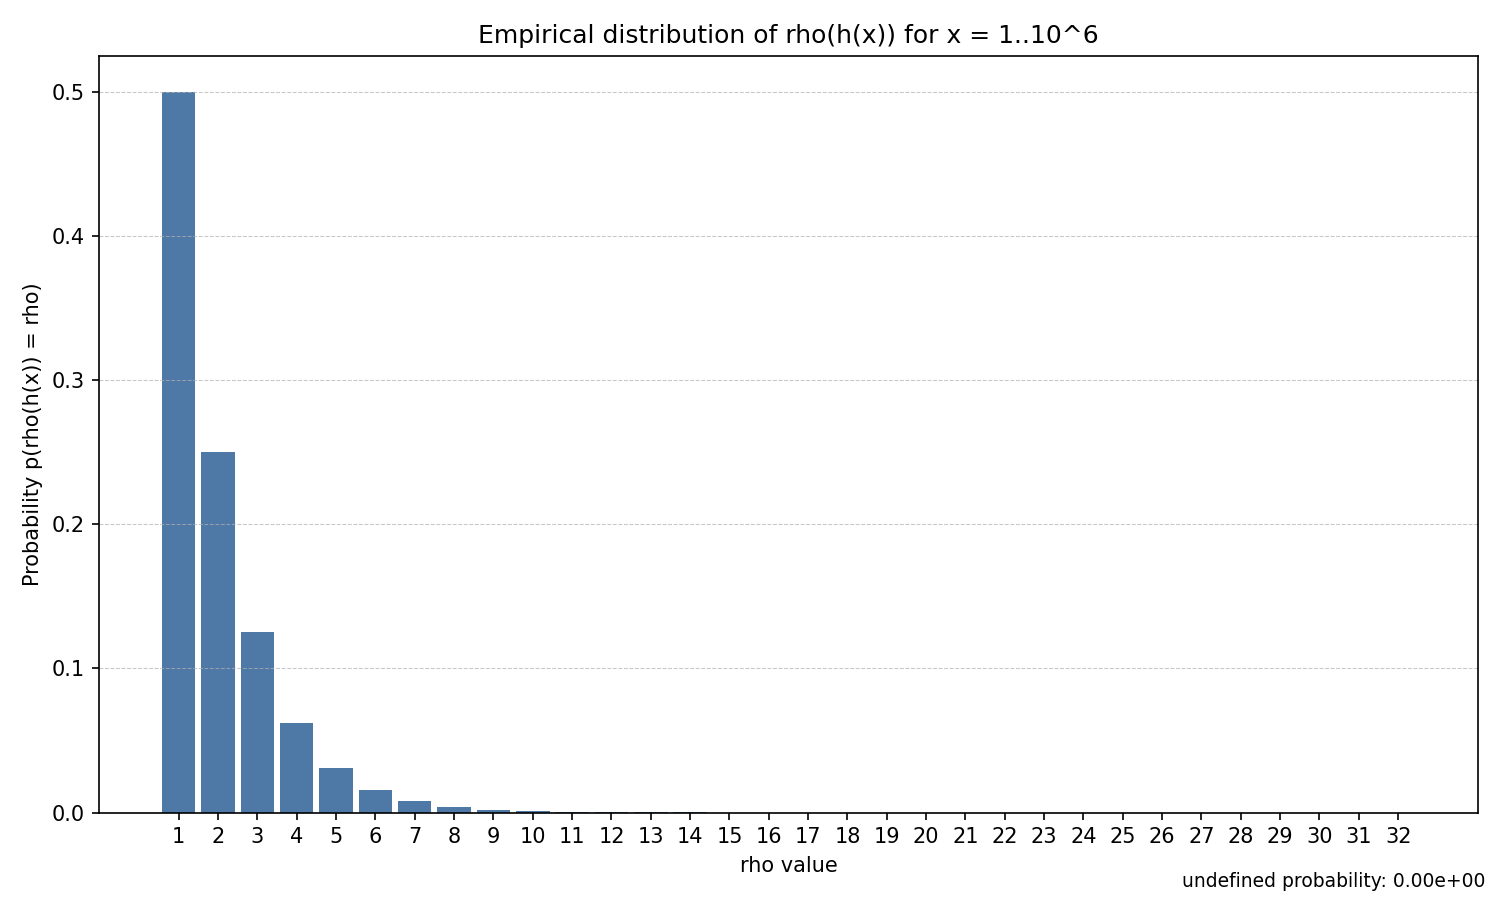
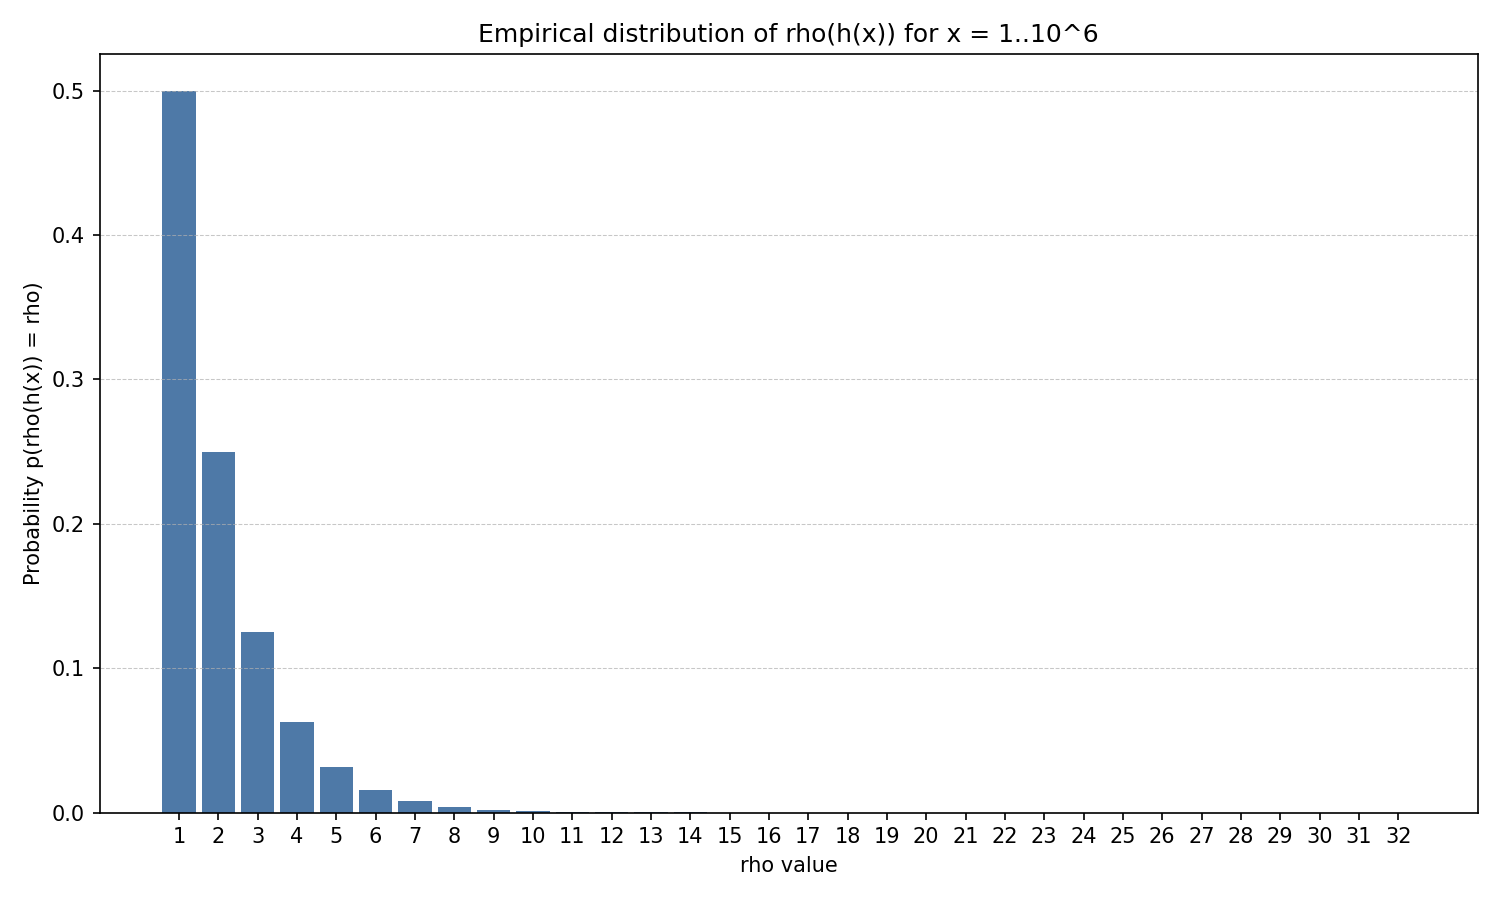
adds comments and removes superflouous code in experiemnts.py and postprocess.py

diff --git a/hyperloglog/experiments.py b/hyperloglog/experiments.py
@@ -5,7 +5,15 @@ import csv
 import sys
 from pathlib import Path
 
-TIMEOUT = 900
+TIMEOUT = 30
+
+
+#paths relative to directory and N value variable for print statement later
+SCRIPT_DIR = Path(__file__).resolve().parent
+JAR_PATH = SCRIPT_DIR / 'app' / 'build' / 'libs' / 'app.jar'
+RESULTS_PATH = SCRIPT_DIR / 'results.csv'
+MODE = 'rho-dist'
+N = 1_000_000
 
 def make_input(n: int) -> str:
     # First line N, second line: 1..N
@@ -13,7 +21,8 @@ def make_input(n: int) -> str:
     nums = " ".join(map(str, range(1, n + 1)))
     return f"{n}\n{nums}\n"
 
-def run_java_once(jar: str, arg: str, n: int) -> str:
+#method that pipes java program
+def run_java(jar: str, arg: str, n: int) -> str:
     input_str = make_input(n)
     p = subprocess.Popen(
         ['java', '-jar', jar, arg],
@@ -33,54 +42,36 @@ def parse_distribution(output: str) -> List[Tuple[str, int]]:
     for line in lines:
         if line.startswith('rho'):
             continue
-        try:
-            label, count_str = line.split(',', 1)
-        except ValueError as exc:
-            raise ValueError(f"Unexpected line from Java output: {line!r}") from exc
+    
+        label, count_str = line.split(',', 1)
+       
         distribution.append((label, int(count_str)))
     return distribution
 
-# ---- config ----
-# Resolve the jar path relative to this script's directory
-SCRIPT_DIR = Path(__file__).resolve().parent
-JAR_PATH = SCRIPT_DIR / 'app' / 'build' / 'libs' / 'app.jar'
-RESULTS_PATH = SCRIPT_DIR / 'results.csv'
-MODE = 'rho-dist'
-N = 1_000_000
+
 
 if __name__ == '__main__':
-    if not JAR_PATH.exists():
-        print(
-            (
-                f"Missing jar at: {JAR_PATH}.\n"
-                f"Try: cd {SCRIPT_DIR} && ./gradlew :app:jar\n"
-                f"Or run from repo root: ./hyperloglog/gradlew :app:jar"
-            ),
-            file=sys.stderr,
-        )
-        sys.exit(1)
 
-    raw_output = run_java_once(str(JAR_PATH), MODE, N)
+    #running HyperLogLog.java 
+    raw_output = run_java(str(JAR_PATH), MODE, N)
     distribution_raw = parse_distribution(raw_output)
 
+    #total number of values vs expected (should ever be different but nice to have)
     total_values = sum(count for _, count in distribution_raw)
     print(f"Distribution covers {total_values} values (expected {N}).")
-
     numeric_entries: List[Tuple[int, int]] = []
-    undefined_count = None
+    
     for label, count in distribution_raw:
         if label.isdigit():
             numeric_entries.append((int(label), count))
-        elif label == 'undefined':
-            undefined_count = count
 
     numeric_entries.sort(key=lambda item: item[0])
 
+    # printing rho and count 
     for rho_value, count in numeric_entries:
         print(f"rho={rho_value}: {count}")
-    if undefined_count is not None:
-        print(f"rho=undefined: {undefined_count}")
-
+   
+    #writing output to list 
     rows = []
     for rho_value, count in numeric_entries:
         rows.append({
@@ -89,13 +80,7 @@ if __name__ == '__main__':
             'probability': f"{count / N:.8f}",
         })
 
-    if undefined_count is not None:
-        rows.append({
-            'rho': 'undefined',
-            'count': undefined_count,
-            'probability': f"{undefined_count / N:.8f}",
-        })
-
+    #writing from output list (rows) to resuslts.csv
     with RESULTS_PATH.open('w', newline='') as f:
         writer = csv.DictWriter(f, fieldnames=['rho', 'count', 'probability'])
         writer.writeheader()

diff --git a/hyperloglog/postprocess.py b/hyperloglog/postprocess.py
@@ -7,21 +7,17 @@ import csv
 from pathlib import Path
 from typing import List, Tuple
 
-import matplotlib
-
-matplotlib.use('Agg')
 import matplotlib.pyplot as plt
 
-
+#paths 
 SCRIPT_DIR = Path(__file__).resolve().parent
 RESULTS_PATH = SCRIPT_DIR / 'results.csv'
 PLOT_PATH = SCRIPT_DIR / 'rho_distribution.png'
 
-
+#reading csv and appending to lists
 def read_distribution(path: Path) -> Tuple[List[int], List[float], float]:
     rho_values: List[int] = []
     probabilities: List[float] = []
-    undefined_prob = 0.0
 
     with path.open(newline='') as handle:
         reader = csv.DictReader(handle)
@@ -29,31 +25,25 @@ def read_distribution(path: Path) -> Tuple[List[int], List[float], float]:
             rho_label = row['rho']
             probability = float(row['probability'])
 
-            try:
-                rho_values.append(int(rho_label))
-                probabilities.append(probability)
-            except ValueError:
-                if rho_label.strip().lower() == 'undefined':
-                    undefined_prob = probability
-
+            
+            rho_values.append(int(rho_label))
+            probabilities.append(probability)
+           
     paired = sorted(zip(rho_values, probabilities), key=lambda item: item[0])
     if paired:
         rho_values, probabilities = map(list, zip(*paired))  # type: ignore[arg-type]
     else:
         rho_values, probabilities = [], []
 
-    return rho_values, probabilities, undefined_prob
+    return rho_values, probabilities
 
 
 if __name__ == '__main__':
-    if not RESULTS_PATH.exists():
-        raise SystemExit(f'Missing results file at: {RESULTS_PATH}')
+    
+    #calling csv reader method on results.csv
+    rho_values, probabilities = read_distribution(RESULTS_PATH)
 
-    rho_values, probabilities, undefined_prob = read_distribution(RESULTS_PATH)
-
-    if not rho_values:
-        raise SystemExit('No numeric rho entries found in results.csv')
-
+    #making plot (matplotlib)
     plt.figure(figsize=(10, 6))
     plt.bar(rho_values, probabilities, color='#4e79a7', width=0.85)
 
@@ -63,9 +53,7 @@ if __name__ == '__main__':
     plt.xticks(rho_values)
     plt.grid(axis='y', linestyle='--', linewidth=0.5, alpha=0.7)
 
-    caption = 'undefined probability: {:.2e}'.format(undefined_prob)
-    plt.figtext(0.99, 0.01, caption, ha='right', va='bottom', fontsize=9)
-
+    #saving plot to specified path 
     plt.tight_layout()
     plt.savefig(PLOT_PATH, dpi=150)
     print(f'Wrote distribution plot to {PLOT_PATH}')

diff --git a/hyperloglog/app/src/main/java/hyperloglog/HyperLogLog.java b/hyperloglog/app/src/main/java/hyperloglog/HyperLogLog.java
@@ -77,16 +77,10 @@ public class HyperLogLog {
     }
 
     public static void main(String[] args) {
-        if (args.length == 0) {
-            System.err.println("Expected a mode argument (e.g., hash, rho-dist).");
-            System.out.println("null");
-            return;
-        }
-
         int[] x = readData();
 
         switch (args[0]) {
-            case "hash": {
+            case "hash": { //if the input begins with hash
                 int[] hashed = hArray(x);
                 if (hashed.length == 0) {
                     System.out.println("null");
@@ -105,16 +99,12 @@ public class HyperLogLog {
                 }
                 break;
             }
-            case "rho-dist": {
+            case "rho-dist": { //if the input starts with rho-dist
                 int[] hashed = hArray(x);
-                int[] counts = new int[33]; // Index 1..32 store rho counts
-                int undefined = 0;
+                int[] counts = new int[33]; //indexes from 1-32 to store the rho counts
 
                 for (int value : hashed) {
-                    if (value == 0) {
-                        undefined++;
-                        continue;
-                    }
+                   
 
                     int rhoValue = rho(value);
                     if (rhoValue >= counts.length) {
@@ -127,7 +117,6 @@ public class HyperLogLog {
                 for (int rhoValue = 1; rhoValue < counts.length; rhoValue++) {
                     System.out.printf("%d,%d%n", rhoValue, counts[rhoValue]);
                 }
-                System.out.printf("undefined,%d%n", undefined);
                 break;
             }
             default: {
